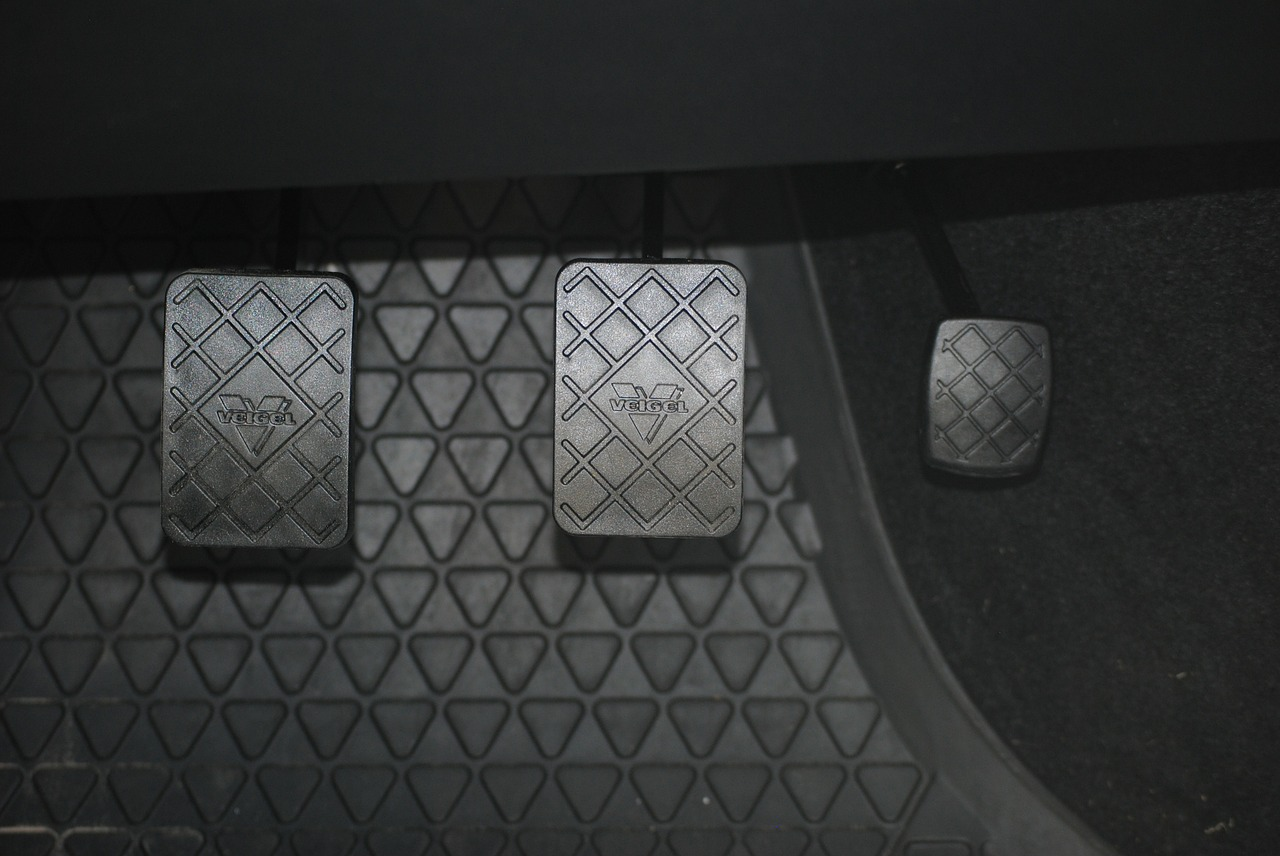
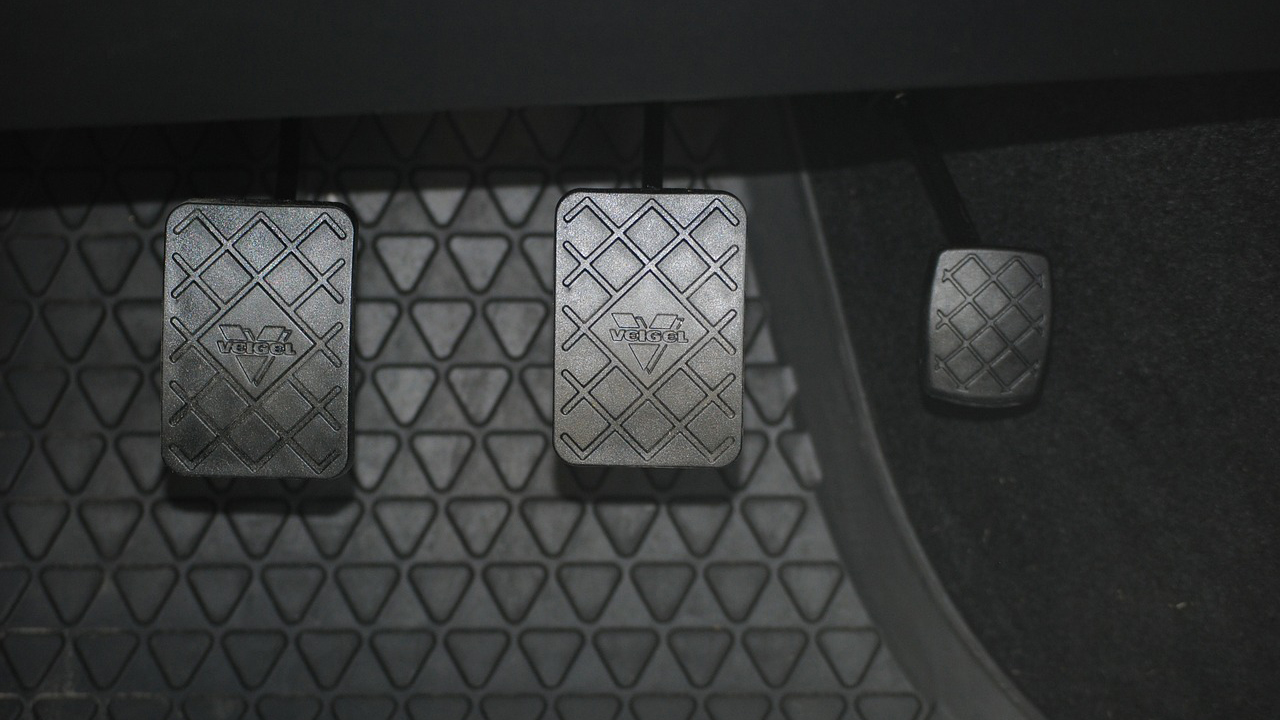
some changes in language and update the resolution of some img
cambios en:
-admin_controller.js (language)
-Tapete_negro_para_carro.jpg y Tapete_rojo_para_carro.jpg

diff --git a/src/controllers/admin_controller.js b/src/controllers/admin_controller.js
@@ -45,7 +45,7 @@ controller.inventory_add_new_post = async (req, res) => {
         newAcc.discount,
     ]);
 
-    req.flash('success', 'Transacción: Accesorio Añadido'); 
+    req.flash('success', 'Transacción éxitosa: Accesorio Añadido'); 
     res.redirect('/admin/inventory/add_existing');
 };
 
@@ -85,7 +85,7 @@ controller.inventory_add_existing_id_post = async (req, res) => {
         addInventory.newAmmount,  
     ]); 
 
-    req.flash('success', 'SUCCESS: was updated successfully'); 
+    req.flash('success', 'Transacción éxitosa: Accesorio actualizado'); 
     res.redirect('/admin/inventory/add_existing');
 }
 
